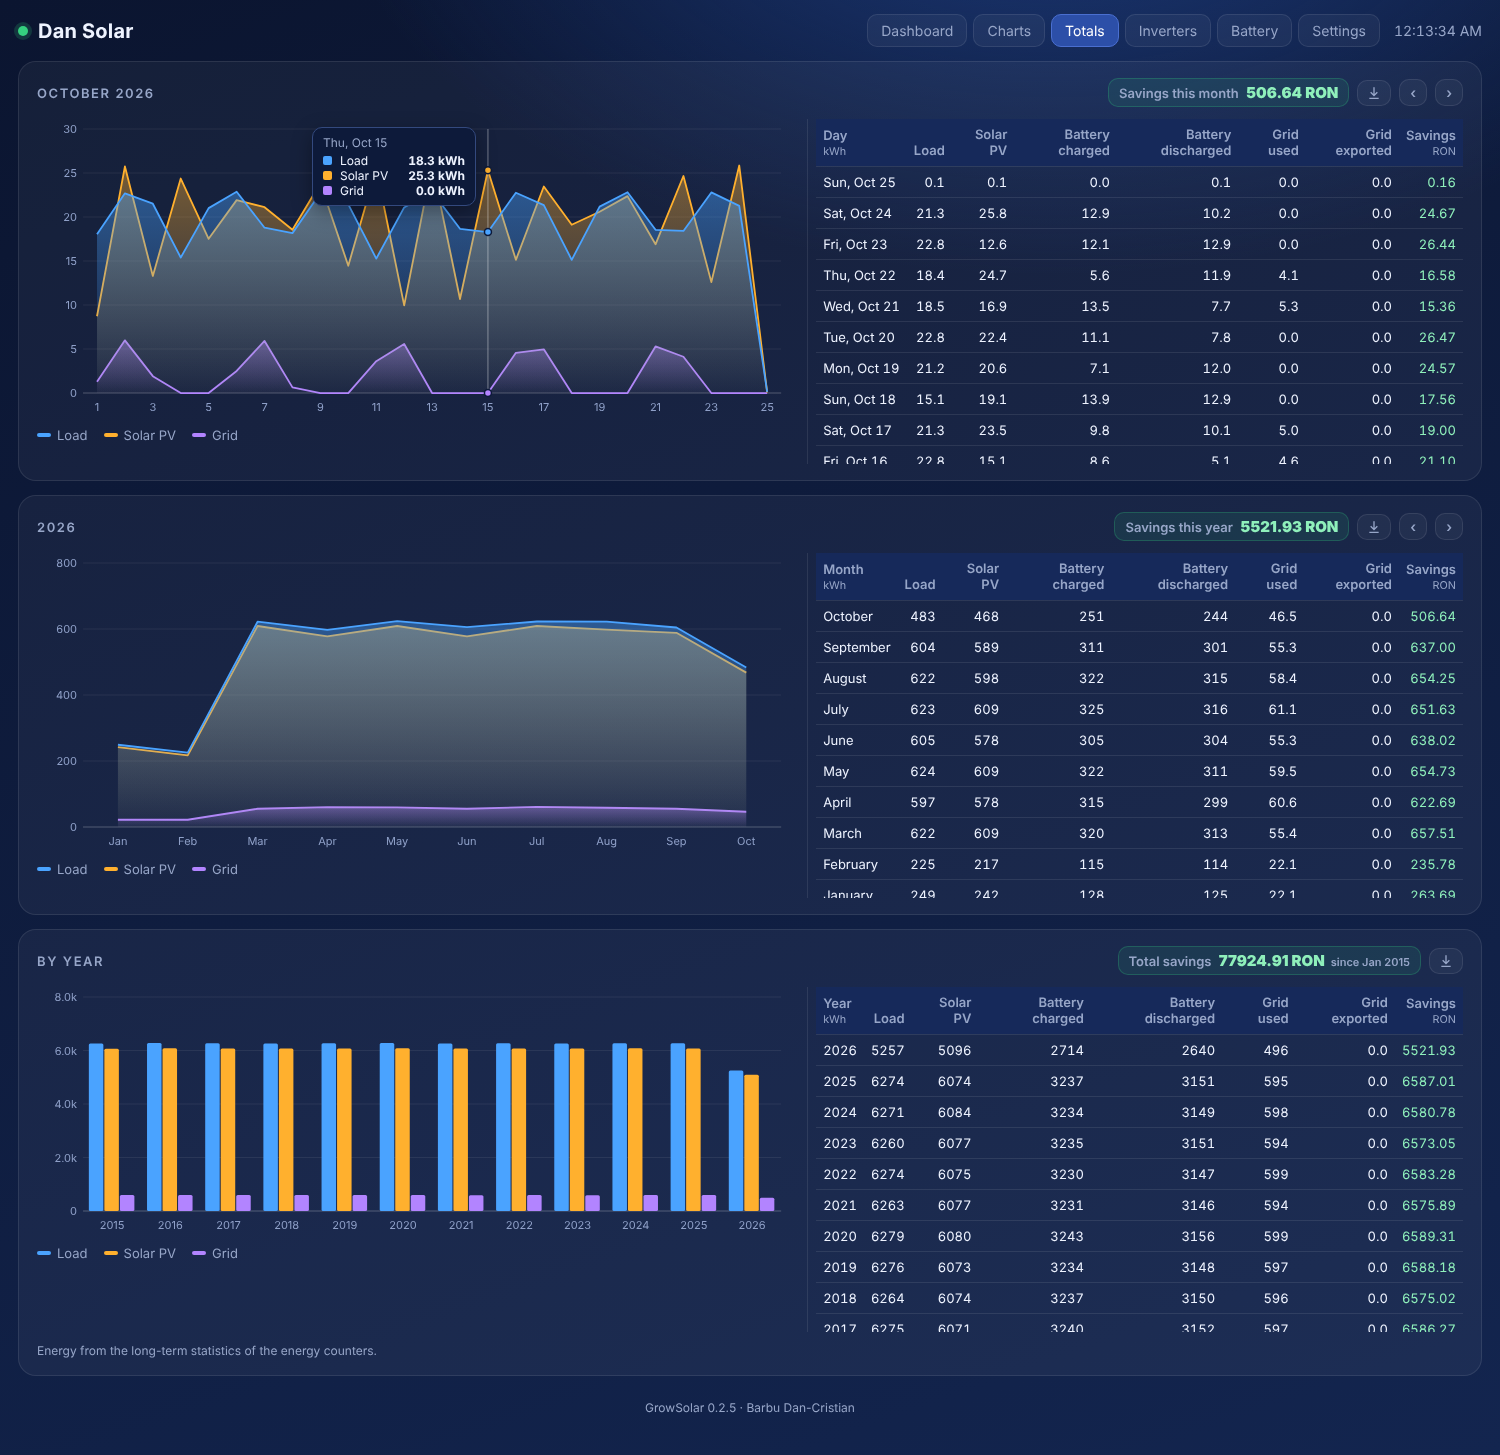
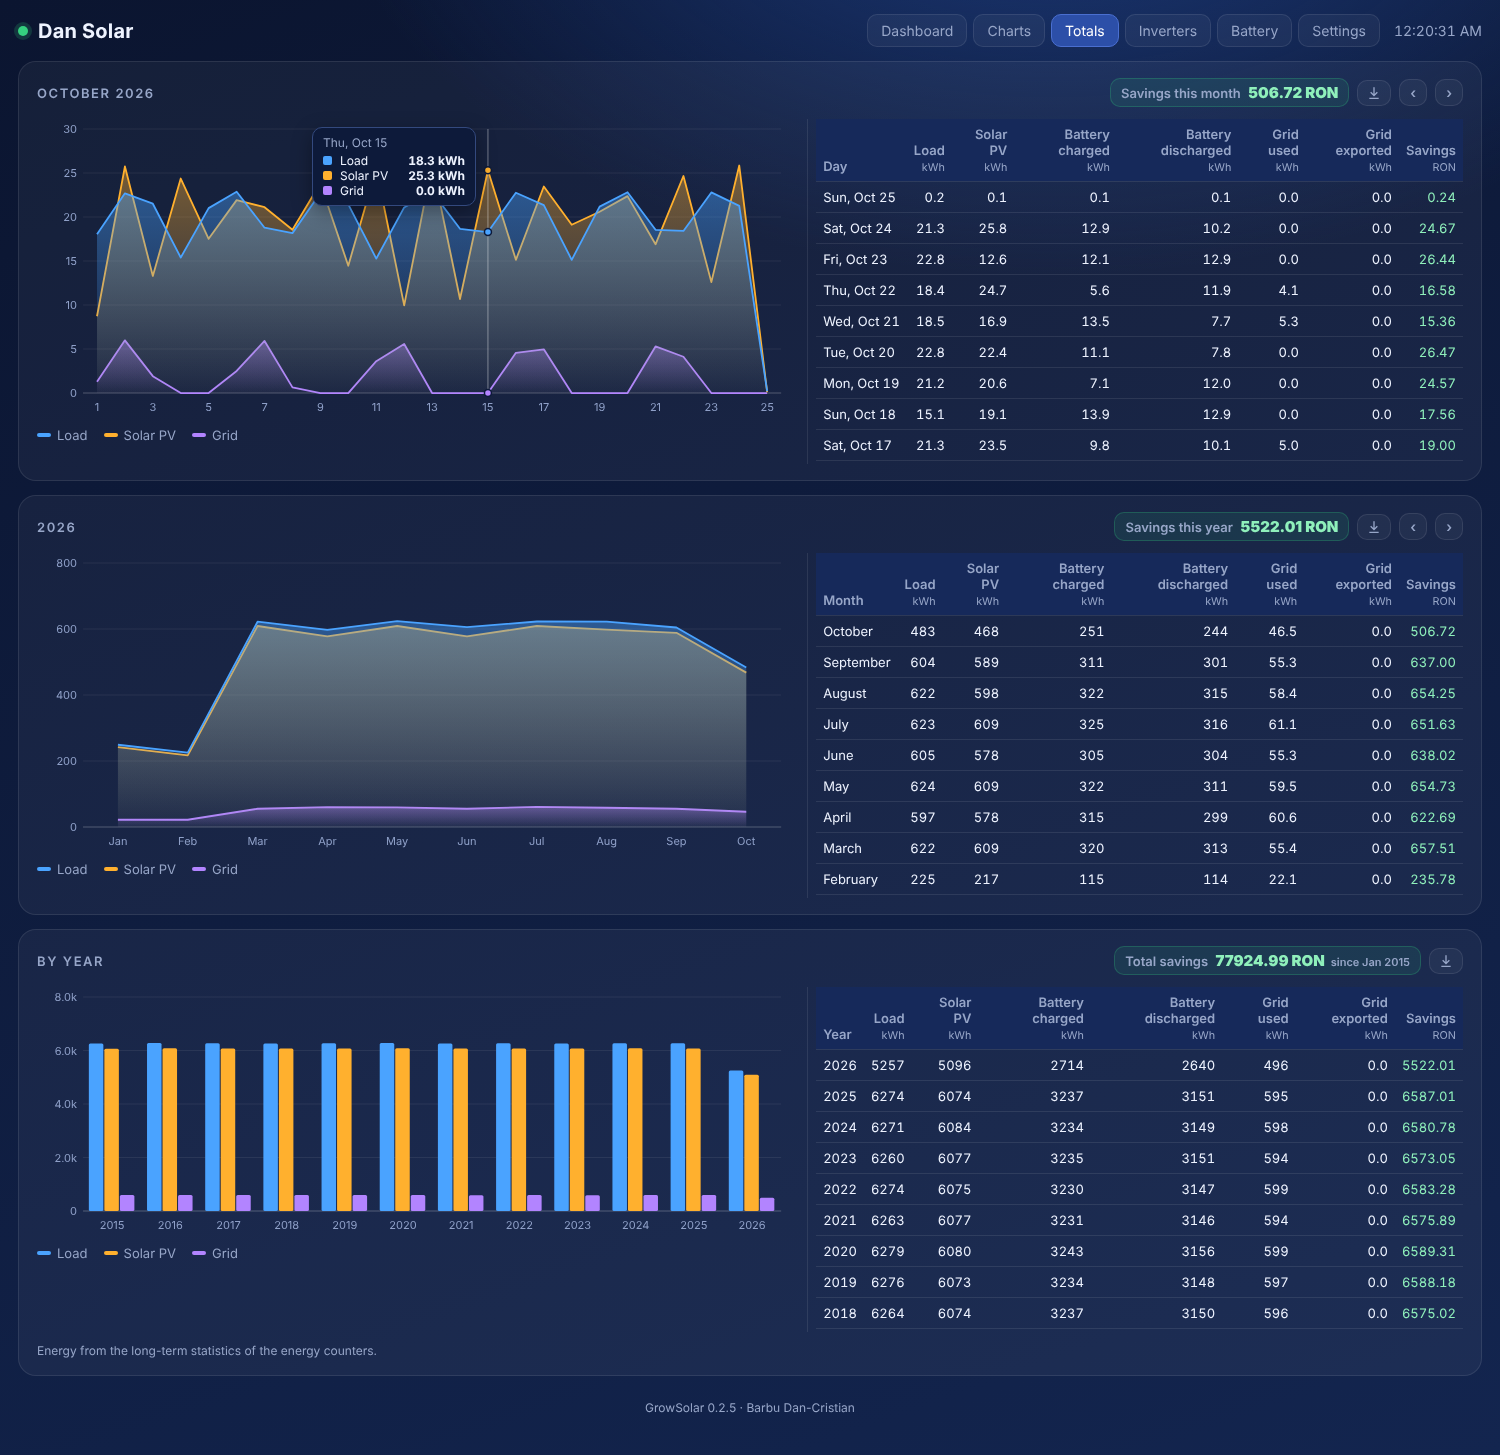
Totals tables: unit under every column

diff --git a/custom_components/growsolar/frontend/growsolar-panel.js b/custom_components/growsolar/frontend/growsolar-panel.js
@@ -1065,7 +1065,7 @@ class GrowSolarPanel extends HTMLElement {
       // energy in kWh without the unit in every cell, so the savings column fits next to the chart
       const kwh = (v) => (isNum(v) ? (Math.abs(v) >= 100 ? v.toFixed(0) : v.toFixed(1)) : '–');
       const head = { day: 'day', month: 'month', year: 'year' }[period];
-      this.$(`#${period}_t`).innerHTML = `<tr><th>${this.t(head)}<small>kWh</small></th>${shown.map(([, l]) => `<th>${this.t(l)}</th>`).join('')}${price && has('load') ? `<th>${this.t('savings')}<small>${esc(cur)}</small></th>` : ''}</tr>` +
+      this.$(`#${period}_t`).innerHTML = `<tr><th>${this.t(head)}</th>${shown.map(([, l]) => `<th>${this.t(l)}<small>kWh</small></th>`).join('')}${price && has('load') ? `<th>${this.t('savings')}<small>${esc(cur)}</small></th>` : ''}</tr>` +
         [...rows].reverse().map((r) => { const v = r.values, x = sav(v);
           return `<tr><td>${esc(r.label)}</td>${shown.map(([k]) => `<td>${kwh(v[k])}</td>`).join('')}${price && has('load') ? `<td class="sv">${isNum(x) ? x.toFixed(2) : '–'}</td>` : ''}</tr>`; }).join('');
       // savings of the period shown, above the chart
